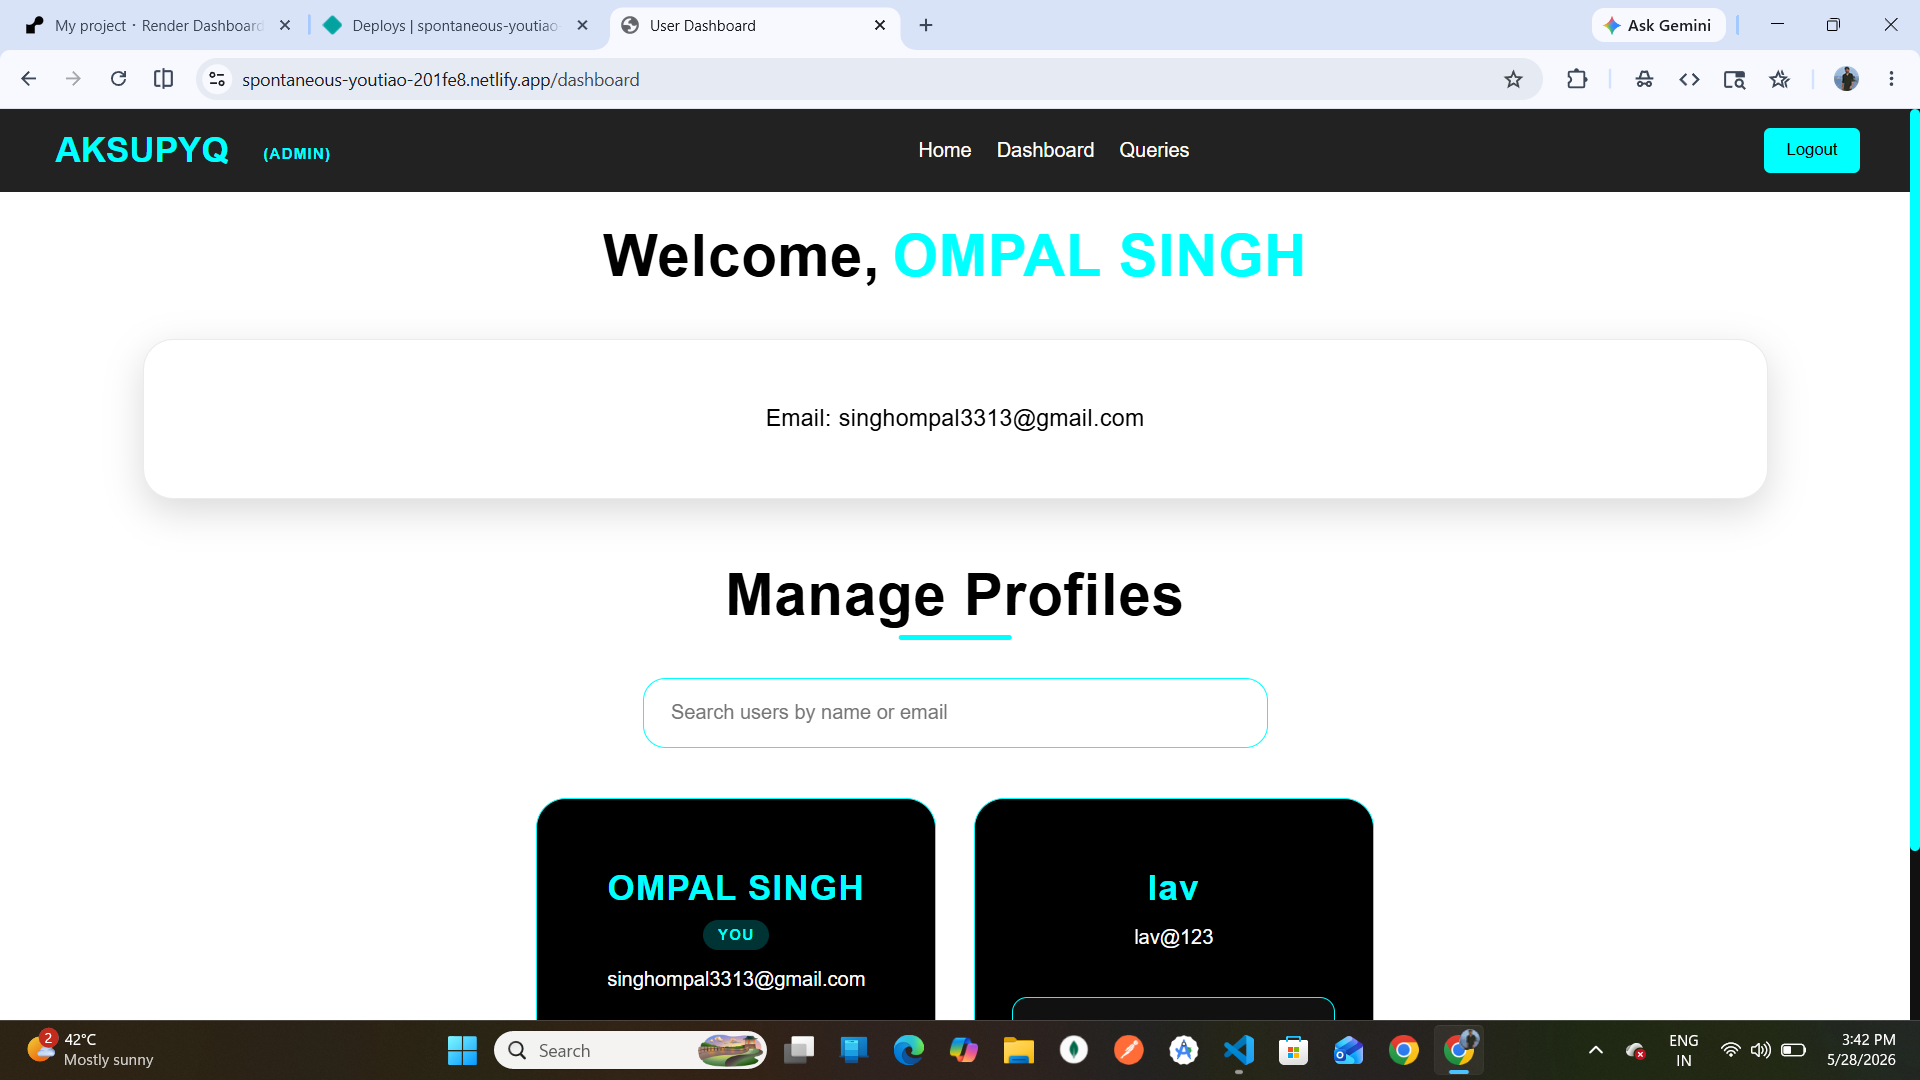
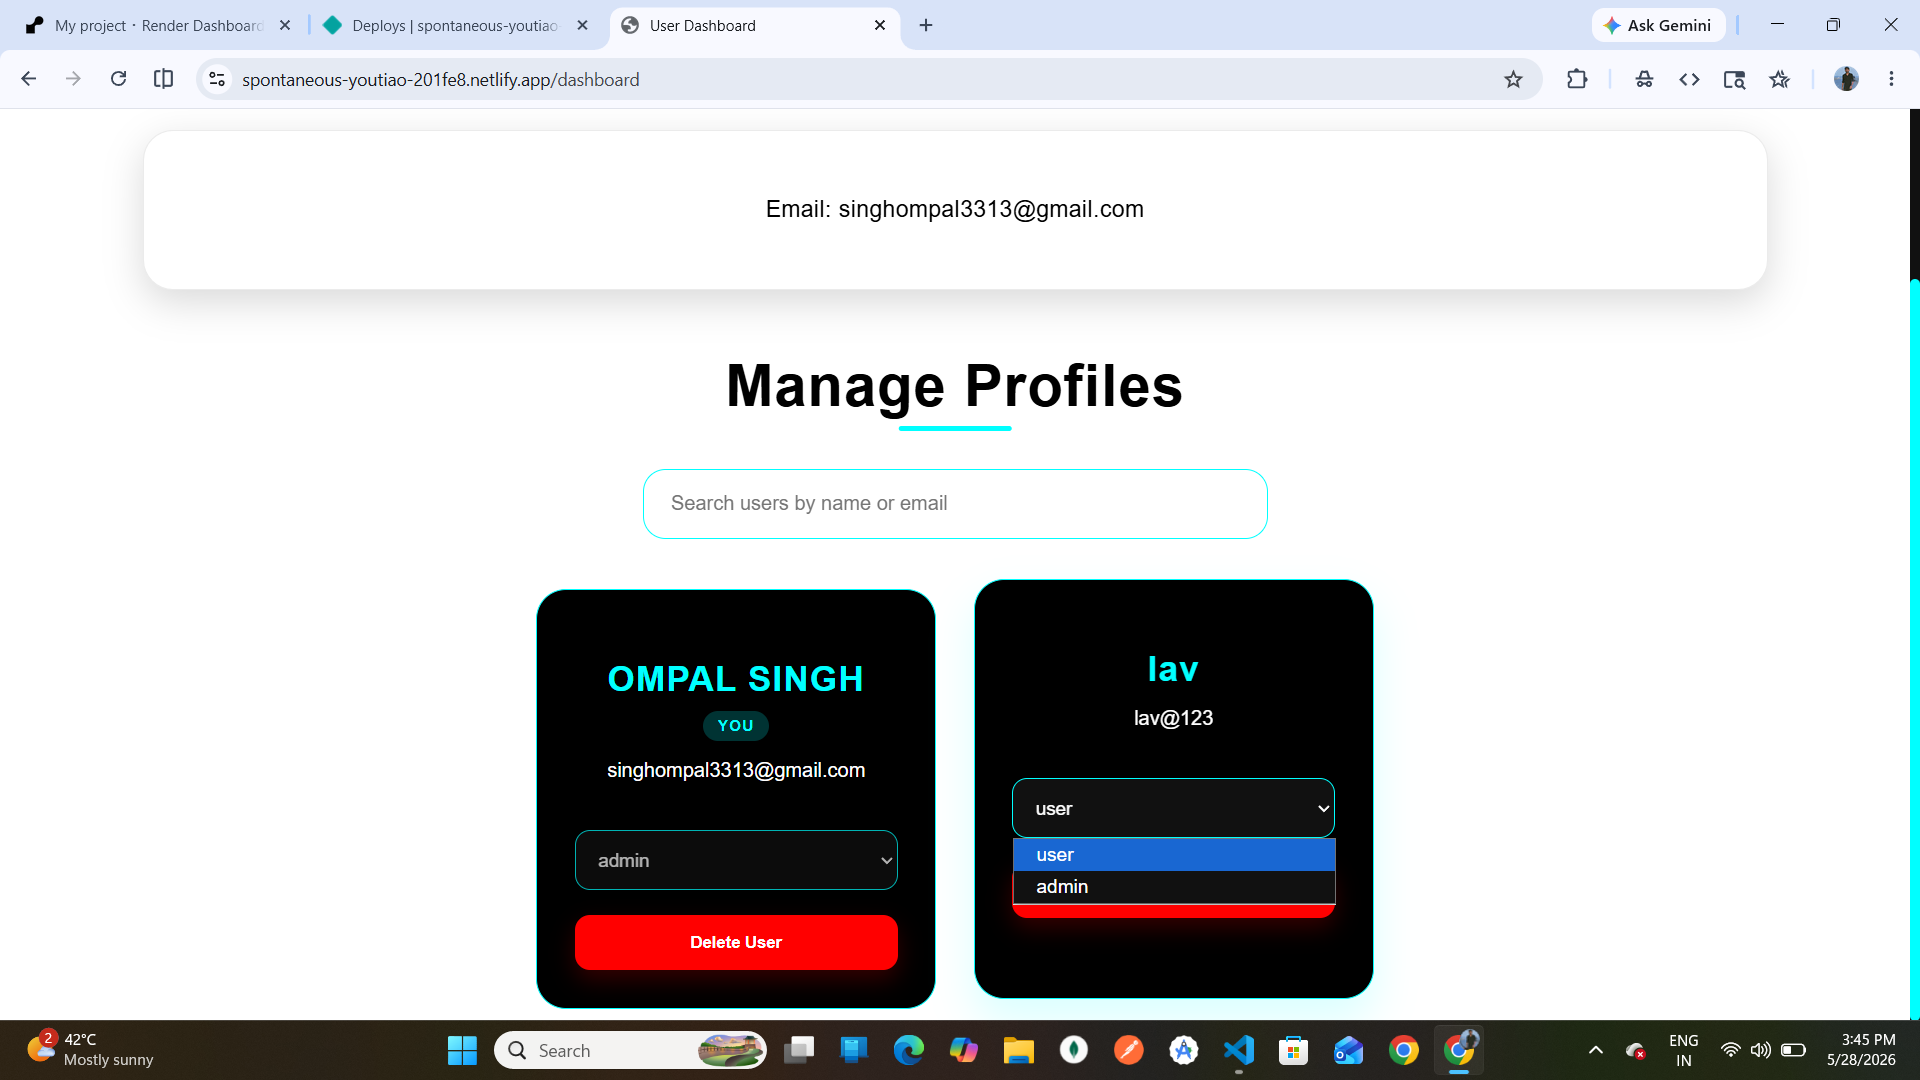
added edit button in papers

diff --git a/Frontend/js/papers.js b/Frontend/js/papers.js
@@ -45,6 +45,7 @@ const customAlert =
 
 
 let selectedPaperId = null;
+let isEditing = false;
 
 
 // MODAL ELEMENTS
@@ -88,9 +89,9 @@ async function loadPapers() {
 
         const papers =
             await response.json();
-        // SORT PAPERS DESCENDING BY YEAR
+        // SORT PAPERS DESCENDING BY SEMESTER
 
-        papers.sort((a, b) => b.year - a.year);
+        papers.sort((a, b) => b.semester - a.semester);
 
         paperContainer.innerHTML = "";
 
@@ -114,7 +115,7 @@ async function loadPapers() {
                 </h3>
 
                 <p>
-                    Year : ${paper.year}
+                    Semester : ${paper.semester}
                 </p>
 
                 <div class="paper-buttons">
@@ -130,6 +131,13 @@ async function loadPapers() {
                     ?
 
                     `
+                        <button
+                        class="edit-btn">
+
+                            Edit
+
+                        </button>
+
 
                         <button
                         class="delete-btn">
@@ -169,7 +177,7 @@ async function loadPapers() {
                             {
 
                                 headers: {
-                                    Authorization: token
+                                    Authorization: `Bearer ${token}`
                                 }
 
                             }
@@ -234,6 +242,48 @@ async function loadPapers() {
 
             }
 
+            // EDIT PAPER
+
+            if (role === "admin") {
+
+                paperCard.querySelector(
+                    ".edit-btn"
+                )
+
+                    .addEventListener("click", () => {
+
+                        isEditing = true;
+
+                        selectedPaperId =
+                            paper._id;
+
+                        document.getElementById(
+                            "paperName"
+                        ).value =
+                            paper.paperName;
+
+                        document.getElementById(
+                            "semester"
+                        ).value =
+                            paper.semester;
+
+                        document.getElementById(
+                            "modalTitle"
+                        ).innerText =
+                            "Edit Paper";
+
+                        document.getElementById(
+                            "submitPaperBtn"
+                        ).innerText =
+                            "Update Paper";
+
+                        uploadModal.style.display =
+                            "flex";
+
+                    });
+
+            }
+
 
             paperContainer.appendChild(
                 paperCard
@@ -270,6 +320,20 @@ async function loadPapers() {
 
 
             uploadCard.addEventListener("click", () => {
+
+                isEditing = false;
+
+                uploadForm.reset();
+
+                document.getElementById(
+                    "modalTitle"
+                ).innerText =
+                    "Upload Paper";
+
+                document.getElementById(
+                    "submitPaperBtn"
+                ).innerText =
+                    "Upload Paper";
 
                 uploadModal.style.display =
                     "flex";
@@ -334,10 +398,10 @@ uploadForm.addEventListener(
 
         formData.append(
 
-            "year",
+            "semester",
 
             document.getElementById(
-                "year"
+                "semester"
             ).value
 
         );
@@ -349,37 +413,90 @@ uploadForm.addEventListener(
         );
 
 
-        formData.append(
-
-            "pdf",
-
+        const pdfFile =
             document.getElementById(
                 "pdfFile"
-            ).files[0]
+            ).files[0];
 
-        );
+        if (pdfFile) {
+
+            formData.append(
+
+                "pdf",
+
+                pdfFile
+
+            );
+
+        }
 
 
         try {
 
-            const response = await fetch(
+            let response;
 
-                "https://aksupyq-backend.onrender.com/api/papers/upload",
+            if (isEditing) {
 
-                {
+                response = await fetch(
 
-                    method: "POST",
+                    `https://aksupyq-backend.onrender.com/api/papers/edit/${selectedPaperId}`,
 
-                    headers: {
-                        Authorization:
-                            `Bearer ${token}`
-                    },
+                    {
 
-                    body: formData
+                        method: "PUT",
 
-                }
+                        headers: {
 
-            );
+                            Authorization:
+                                `Bearer ${token}`,
+
+                            "Content-Type":
+                                "application/json"
+
+                        },
+
+                        body: JSON.stringify({
+
+                            paperName:
+                                document.getElementById(
+                                    "paperName"
+                                ).value,
+
+                            semester:
+                                document.getElementById(
+                                    "semester"
+                                ).value
+
+                        })
+
+                    }
+
+                );
+
+            } else {
+
+                response = await fetch(
+
+                    "https://aksupyq-backend.onrender.com/api/papers/upload",
+
+                    {
+
+                        method: "POST",
+
+                        headers: {
+
+                            Authorization:
+                                `Bearer ${token}`
+
+                        },
+
+                        body: formData
+
+                    }
+
+                );
+
+            }
 
             const data =
                 await response.json();
@@ -390,6 +507,8 @@ uploadForm.addEventListener(
                 "none";
 
             uploadForm.reset();
+
+            isEditing = false;
 
             loadPapers();
 

diff --git a/Backend/routes/paperRoutes.js b/Backend/routes/paperRoutes.js
@@ -48,14 +48,14 @@ router.post(
 
             const {
                 paperName,
-                year,
+                semester,
                 subjectId
             } = req.body;
 
             const newPaper = new Paper({
 
                 paperName,
-                year,
+                semester,
 
                 pdfFile: req.file.path,
 
@@ -154,6 +154,75 @@ router.get(
         }
 
     }
+);
+
+// EDIT PAPER
+
+router.put(
+
+    "/edit/:paperId",
+
+    authMiddleware,
+    adminMiddleware,
+
+    async (req, res) => {
+
+        try {
+
+            const {
+                paperName,
+                semester
+            } = req.body;
+
+            const paper =
+            await Paper.findByIdAndUpdate(
+
+                req.params.paperId,
+
+                {
+                    paperName,
+                    semester
+                },
+
+                {
+                    new: true
+                }
+
+            );
+
+            if(!paper){
+
+                return res.status(404).json({
+
+                    message:
+                    "Paper not found"
+
+                });
+
+            }
+
+            res.status(200).json({
+
+                message:
+                "Paper updated successfully",
+
+                paper
+
+            });
+
+        } catch(error){
+
+            res.status(500).json({
+
+                error:
+                error.message
+
+            });
+
+        }
+
+    }
+
 );
 
 // DELETE PAPER

diff --git a/Frontend/papers.html b/Frontend/papers.html
@@ -58,17 +58,19 @@
 
                 </span>
 
-                <h2>Upload Paper</h2>
+                <h2 id="modalTitle">
+                    Upload Paper
+                </h2>
 
                 <form id="uploadForm">
 
                     <input type="text" id="paperName" placeholder="Paper Name" required>
 
-                    <input type="text" id="year" placeholder="Year" required>
+                    <input type="text" id="semester" placeholder="Semester" required>
 
-                    <input type="file" id="pdfFile" accept=".pdf" required>
+                    <input type="file" id="pdfFile" accept=".pdf">
 
-                    <button type="submit">
+                    <button id="submitPaperBtn" type="submit">
                         Upload Paper
                     </button>
 

diff --git a/Frontend/css/papers.css b/Frontend/css/papers.css
@@ -39,6 +39,7 @@
 }
 
 .download-btn,
+.edit-btn,
 .delete-btn{
 
     padding: 10px 15px;
@@ -57,6 +58,13 @@
     background: cyan;
 
     color: black;
+}
+
+.edit-btn{
+
+    background: orange;
+
+    color: white;
 }
 
 .delete-btn{

diff --git a/Backend/models/Paper.js b/Backend/models/Paper.js
@@ -7,7 +7,7 @@ const paperSchema = new mongoose.Schema({
         required: true
     },
 
-    year: {
+    semester: {
         type: String,
         required: true
     },
